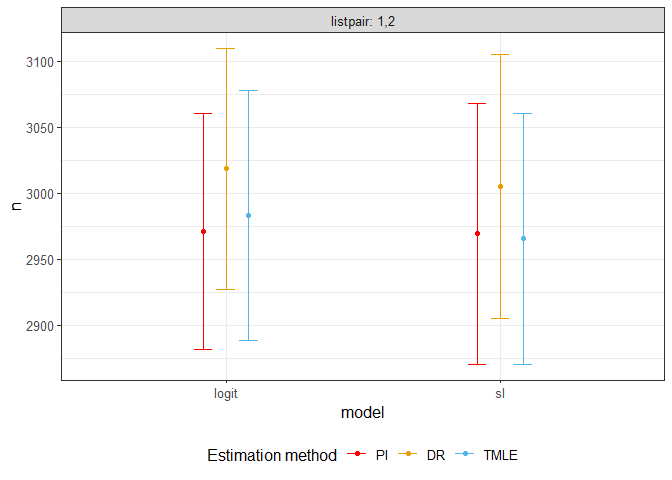
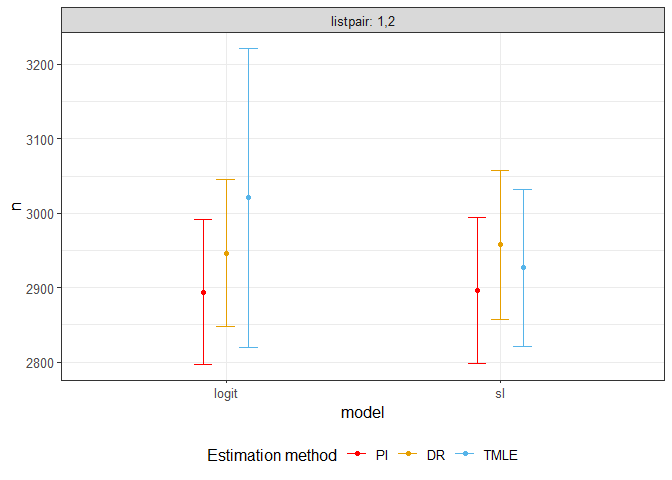
Modified psinhatcond, qhat_sl and rmd file

diff --git a/README.md b/README.md
@@ -33,14 +33,6 @@ This is a basic example which shows you how to solve a common problem:
 
 ``` r
 library(drpop)
-#> 
-#> Attaching package: 'drpop'
-#> The following object is masked from 'package:graphics':
-#> 
-#>     plot
-#> The following object is masked from 'package:base':
-#> 
-#>     plot
 
 n = 1000
 x = matrix(rnorm(n*3, 2, 1), nrow = n)
@@ -54,22 +46,22 @@ datacrc = cbind(y1, y2, exp(x/2))
 options(warn = -1)
 estim <- psinhat(List_matrix = datacrc, func = c("logit"), nfolds = 2, K = 2)
 #> Loading required package: tidyverse
-#> -- Attaching packages ----- tidyverse 1.3.0 --
+#> -- Attaching packages ---------------------- tidyverse 1.3.0 --
 #> v ggplot2 3.3.2     v purrr   0.3.4
 #> v tibble  3.0.3     v dplyr   1.0.1
 #> v tidyr   1.1.1     v stringr 1.4.0
 #> v readr   1.3.1     v forcats 0.5.0
-#> -- Conflicts -------- tidyverse_conflicts() --
+#> -- Conflicts ------------------------- tidyverse_conflicts() --
 #> x dplyr::filter() masks stats::filter()
 #> x dplyr::lag()    masks stats::lag()
 # The population size estimates are obtained by
 estim$n
 #>     logit.PI logit.DR logit.TMLE
-#> 1,2 996.5305 1011.199   990.0618
+#> 1,2 1006.641   1016.9   1011.161
 # The corresponding variances are
 estim$varn
 #>     logit.PI logit.DR logit.TMLE
-#> 1,2 958.9848 980.8106   1019.683
+#> 1,2 909.0767 924.5733   1135.797
 ## basic example code
 ```
 
@@ -91,7 +83,7 @@ datacrc = cbind(y1, y2, exp(x/2))
 
 estim <- psinhat(List_matrix = datacrc, func = c("logit", "sl"), nfolds = 2, eps = 0.01)
 
-plot(psinhat = estim)$g1
+plotci(psinhat = estim)$g1
 ```
 
 <img src="man/figures/README-plot1-1.png" width="100%" />
@@ -120,7 +112,7 @@ y2 = sapply(1:n, function(i) {sample(c(0, 1), 1, replace = TRUE, prob = c( 1 - e
 datacrc = cbind.data.frame(y1, y2, exp(x/2), ss)
 
 p = psinhatcond(List_matrix = datacrc, condvar = 'ss')
-summary = plot(psinhatcond = p)
+summary = plotci(psinhatcond = p)
 summary$g2 + geom_hline(yintercept = table(ss), color = "brown", linetype = "dashed")
 ```
 
